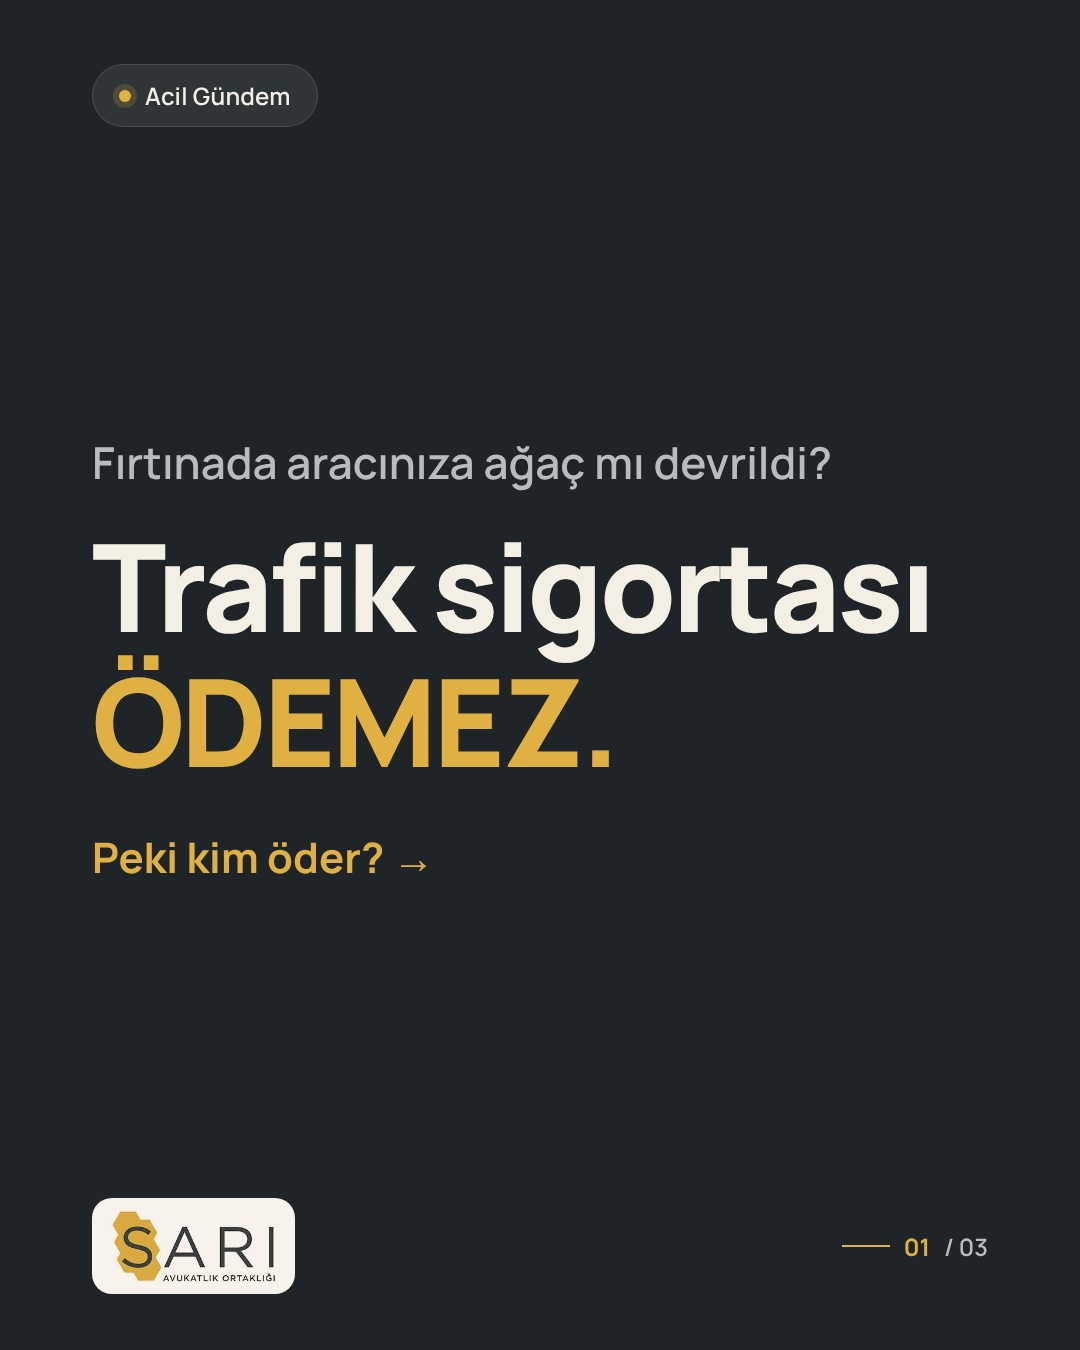
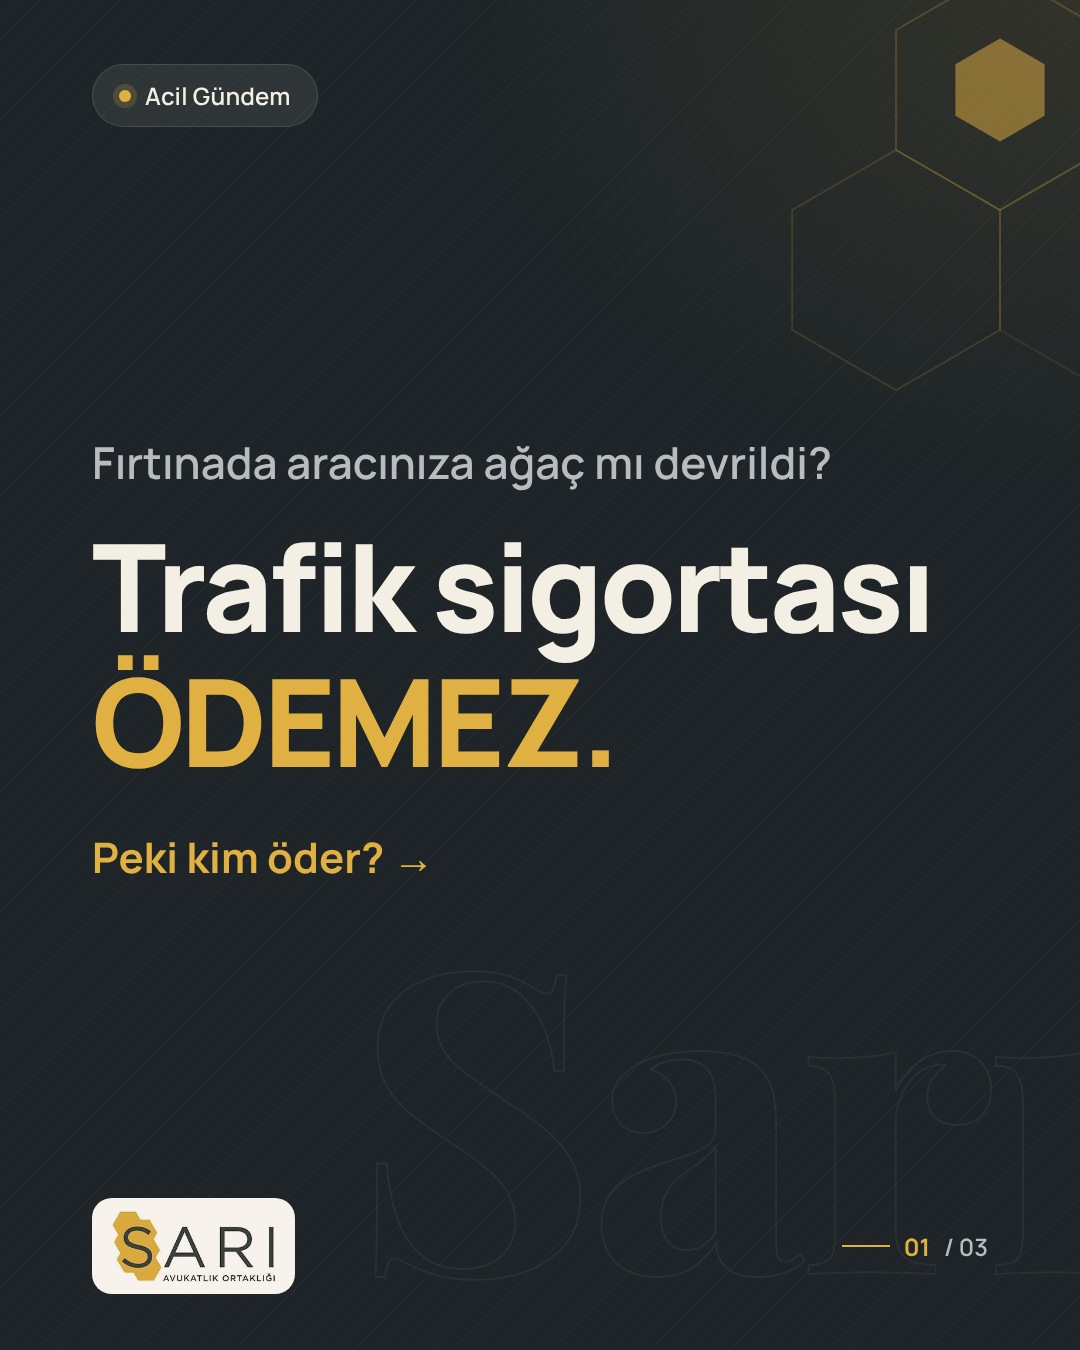
Keep original design ornaments; concise writing rules
Claude-Session: https://claude.ai/code/session_0164oKcT3mMCAzEmKnB2D6t4

Changed region(s): [[0.8861, 0.0311, 0.9778, 0.1244], [0.825, 0.0933, 0.8556, 0.1244]]

diff --git a/saripartners/rehber/icerik-plani.md b/saripartners/rehber/icerik-plani.md
@@ -150,3 +150,11 @@ Görsel dil ve uyum kuralları değişmez (`seri-plani.md` §1, `uyum-kurallari.
 | **7–13 Ara** | Perşembe taramasıyla seçilecek (aday: kira artışı ve yılbaşı) | **Türkiye'ye gelince sağlık hizmeti: GSS ve sosyal güvenlik sözleşmesi** | 10 Ara İnsan Hakları Günü |
 
 Acil Gündem gönderileri bu takvime her an eklenebilir.
+
+## 8. Yazım kuralları (kullanıcı geri bildirimi, 15.11.2026)
+
+Tasarım (petek motifi, filigran, doku, renkler) aynen korunur. Değişen şey **ifade dilidir**:
+- **Kısa ve vurucu yaz.** Kitabi ve uzun cümle yok; her slaytta tek fikir, mümkünse tek cümle.
+- **Asıl çarpıcı bilgi en büyük ve en kalın öğedir.** Örnek: "Trafik sigortası **ÖDEMEZ.**" (`vurgu` slayt tipi).
+- **En fazla 3–4 slayt:** kanca (vurgu), cevap (`cevap` tipi), ne yapmalı (`adimlar` tipi). Kaynak ve yasal not son slaytta küçük yazıyla.
+- **Açıklama metni de kısa:** 3–5 satır özet, tek etkileşim çağrısı.
